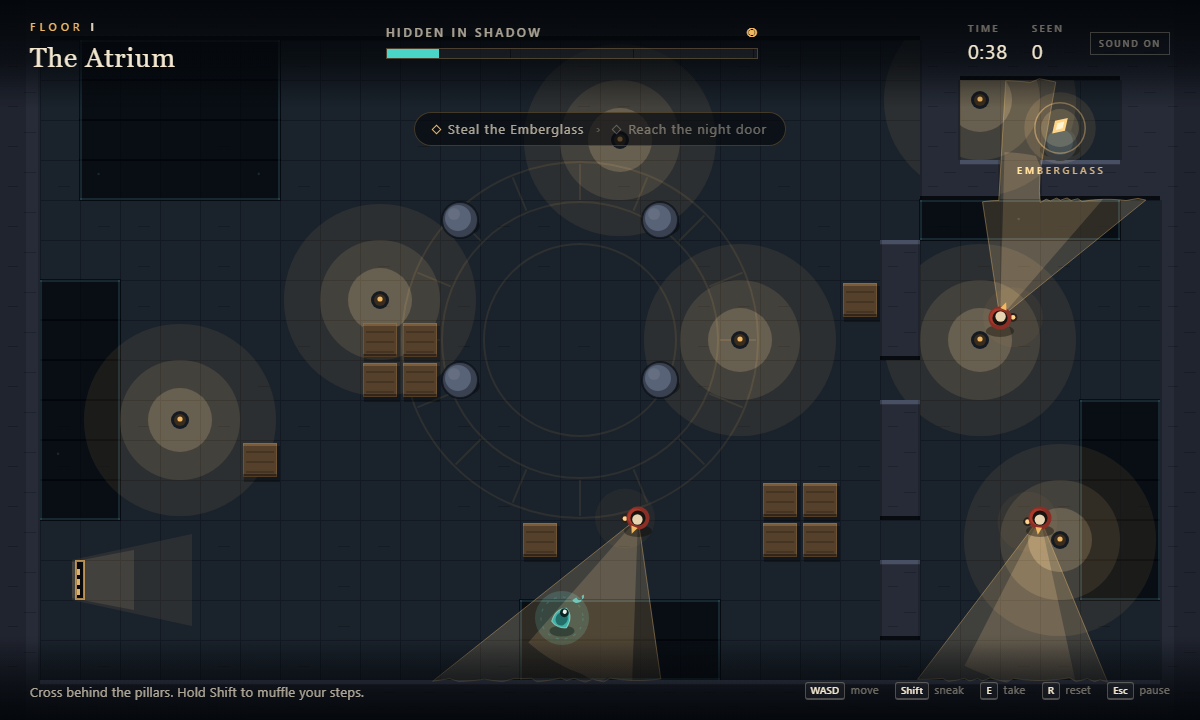
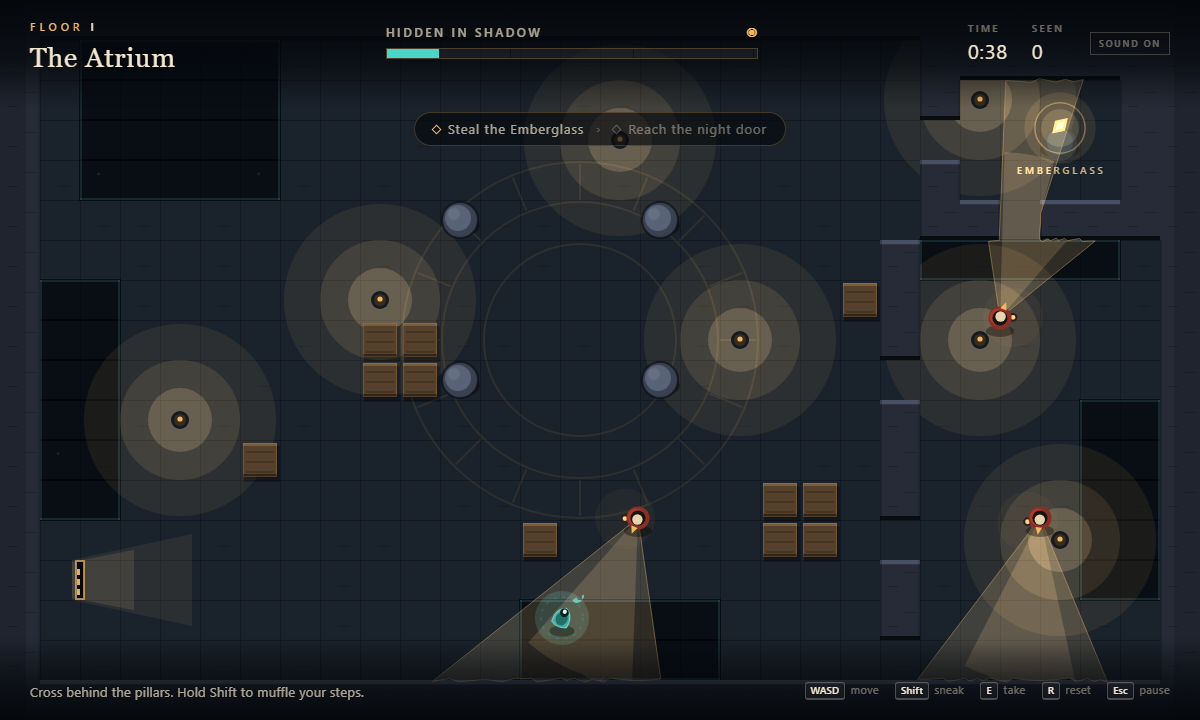
Open a second approach into the Emberglass alcoves
The atrium alcove gains a west door and a taller room so the prize label sits on
floor, and the gallery chamber gains a door from the north-east room. Two ways in
per prize, and both still inside the watch's sweep.

Changed region(s): [[0.7708, 0.0917, 0.9558, 0.3361], [0.7708, 0.1528, 0.8325, 0.2444]]

diff --git a/game/js/level.js b/game/js/level.js
@@ -45,14 +45,15 @@ function buildAtrium() {
 
   // A garden of shadow in the north-west, and the Emberglass alcove north-east.
   paintRect(grid, 2, 1, 6, 4, SHADOW);
-  paintRect(grid, 23, 1, 28, 4, WALL);
-  paintRect(grid, 24, 2, 27, 3, FLOOR);
-  put(grid, 25, 4, FLOOR);
+  paintRect(grid, 23, 1, 28, 5, WALL);
+  paintRect(grid, 24, 2, 27, 4, FLOOR);
+  put(grid, 25, 5, FLOOR);
+  put(grid, 23, 3, FLOOR);
   put(grid, 26, 3, GOAL);
   put(grid, 24, 2, LAMP);
 
   // The alcove's shadowed doorstep.
-  paintRect(grid, 23, 5, 27, 5, SHADOW);
+  paintRect(grid, 23, 6, 27, 6, SHADOW);
 
   // A divider between the hall and the east corridor, with two archways.
   paintRect(grid, 22, 6, 22, 15, WALL);
@@ -112,6 +113,7 @@ function buildGallery() {
   paintRect(grid, 23, 5, 28, 5, WALL);
   paintRect(grid, 28, 1, 28, 5, WALL);
   put(grid, 24, 5, FLOOR);
+  put(grid, 22, 3, FLOOR);
   put(grid, 25, 3, GOAL);
   put(grid, 24, 2, LAMP);
   paintRect(grid, 27, 3, 27, 4, SHADOW);
